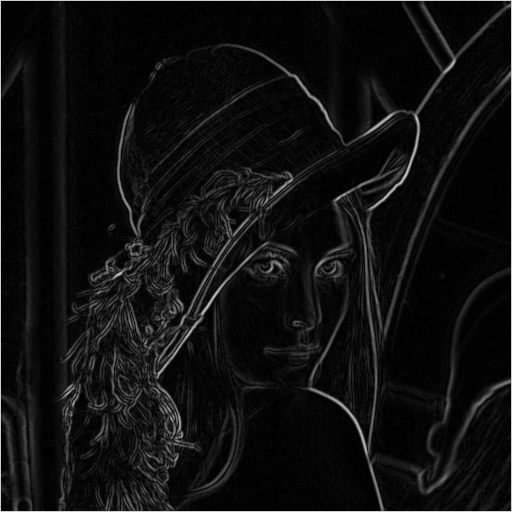
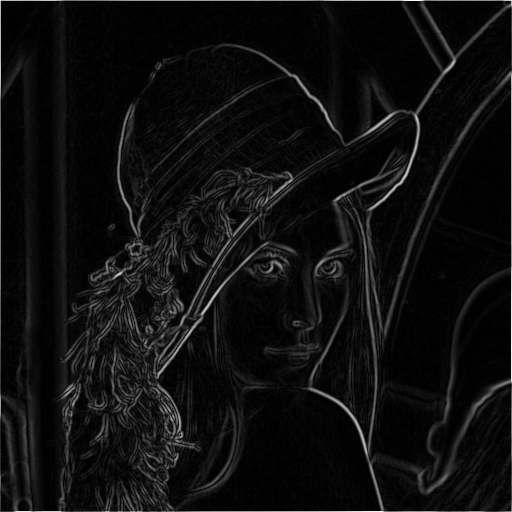
[hw5] 正規化版本

Changed region(s): [[0.9688, 0.9688, 1.0, 1.0], [0.0, 0.9688, 0.0312, 1.0]]

diff --git a/hw5/ImageModel/Main.cpp b/hw5/ImageModel/Main.cpp
@@ -1,6 +1,7 @@
 #include <iostream>
 #include <filesystem> // ISO C++17 標準 (/std:c++17)
 #include <opencv2/opencv.hpp>
+#include <functional>
 
 using namespace std;
 using namespace cv;
@@ -198,6 +199,16 @@ public:
         return grayImage;
     }
 
+    // 二值化
+    Mat ConvertToBinary(const Mat& grayImage, uchar threshold = 128) {
+        Mat binaryImage(grayImage.size(), CV_8UC3);
+
+        for (int i = 0; i < grayImage.rows; i++)
+            for (int j = 0; j < grayImage.cols; j++)
+                binaryImage.at<Vec3b>(i, j) = grayImage.at<Vec3b>(i, j)[0] > threshold ? Vec3b(255, 255, 255) : Vec3b(0, 0, 0);
+        return binaryImage;
+    }
+
     // Filter
     Mat FilterBy(const Mat& sourceImage, FilterType filterType = FilterType::Gaussian, int mask = 3, unsigned int times = 1) {
         Mat resultImage = sourceImage;
@@ -209,8 +220,31 @@ public:
         return resultImage;
     }
 
-    // For Sobel and Prewitt
-    map<EdgeType, Mat> DetectEdgeByKernel(const Mat& sourceImage, const Kernel<int>& kernelX, const Kernel<int>& kernelY) {
+    // Sobel Edge Detect
+    map<EdgeType, Mat> Sobel(const Mat& sourceImage) {
+        // 定義 Sobel Kernel
+        const Kernel<int> sobelKernelX = { {-1, 0, 1}, {-2, 0, 2}, {-1, 0, 1} };
+        const Kernel<int> sobelKernelY = { {-1, -2, -1}, {0, 0, 0}, {1, 2, 1} };
+        return DetectEdgeBy2Kernel(sourceImage, sobelKernelX, sobelKernelY);
+    }
+
+    // Prewitt Edge Detect
+    map<EdgeType, Mat> Prewitt(const Mat& sourceImage) {
+        // 定義 Prewitt Kernel
+        const Kernel<int> prewittKernelX = { {-1, 0, 1}, {-1, 0, 1}, {-1, 0, 1} };
+        const Kernel<int> prewittKernelY = { {-1, -1, -1}, {0, 0, 0}, {1, 1, 1} };
+        return DetectEdgeBy2Kernel(sourceImage, prewittKernelX, prewittKernelY);
+    }
+
+    // Laplacian Edge Detect
+    Mat Laplacian(const Mat& sourceImage, const Kernel<int>& kernel) {
+        const Kernel<int> zeroKernelX = { {0, 0, 0}, {0, 0, 0}, {0, 0, 0} };
+        return DetectEdgeBy2Kernel(sourceImage, kernel, zeroKernelX)[EdgeType::Both];
+    }
+
+private:
+    // 進行
+    map<EdgeType, Mat> DetectEdgeBy2Kernel(const Mat& sourceImage, const Kernel<int>& kernelX, const Kernel<int>& kernelY) {
         // return setting
         map<EdgeType, Mat> resultMap;
         Mat& verticalImage = resultMap[EdgeType::Vertical] = Mat(sourceImage.size(), CV_8UC3);
@@ -219,7 +253,7 @@ public:
 
         // padding
         Mat padded = this->PadByZero(sourceImage, kernelX.size() / 2);
-        
+
         // 計算 gx, gy, G = |gx| + |gy|
         int max = 0;
         Kernel<int> tempG(sourceImage.rows, vector<int>(sourceImage.cols));
@@ -244,8 +278,8 @@ public:
         }
         
         // 正規化
-        for (int i = 1; i < sourceImage.rows - 1; i++)
-            for (int j = 1; j < sourceImage.cols - 1; j++)
+        for (int i = 0; i < sourceImage.rows; i++)
+            for (int j = 0; j < sourceImage.cols; j++)
             {
                 int value = tempG[i][j] * 255 / max;
                 bothImage.at<Vec3b>(i, j) = Vec3b(value, value, value);
@@ -253,7 +287,13 @@ public:
         return resultMap;
     }
 
-private:
+    // padding 使用 0 填充
+    Mat PadByZero(const Mat& image, int paddingSize = 1) {
+        Mat padded = Mat(image.rows + paddingSize * 2, image.cols + paddingSize * 2, image.type(), Scalar(0));
+        image.copyTo(padded(Rect(paddingSize, paddingSize, image.cols, image.rows)));
+        return padded;
+    }
+
     Filter* CreateFilter(FilterType filterType) {
         Filter* filter = nullptr;
         switch (filterType)
@@ -272,13 +312,6 @@ private:
             break;
         }
         return filter;
-    }
-
-    // padding 使用 0 填充
-    Mat PadByZero(const Mat& image, int paddingSize = 1) {
-        Mat padded = Mat(image.rows + paddingSize * 2, image.cols + paddingSize * 2, image.type(), Scalar(0));
-        image.copyTo(padded(Rect(paddingSize, paddingSize, image.cols, image.rows)));
-        return padded;
     }
 };
 
@@ -321,13 +354,9 @@ int main() {
 
     ImageLibrary library = ImageLibrary();
 
-    // 定義 Sobel Kernel
-    const Kernel<int> sobelX = { {-1, 0, 1}, {-2, 0, 2}, {-1, 0, 1} };
-    const Kernel<int> sobelY = { {-1, -2, -1}, {0, 0, 0}, {1, 2, 1} };
-
-    // 定義 Prewitt Kernel
-    const Kernel<int> prewittX = { {-1, 0, 1}, {-1, 0, 1}, {-1, 0, 1} };
-    const Kernel<int> prewittY = { {-1, -1, -1}, {0, 0, 0}, {1, 1, 1} };
+    // 定義 Laplacian Kernel
+    const Kernel<int> laplacianKernel1 = { {0, 1, 0}, {1, -4, 1}, {0, 1, 0} };
+    const Kernel<int> laplacianKernel2 = { {1, 1, 1}, {1, -8, 1}, {1, 1, 1} };
 
     for (ImageInfo imageInfo : images)
     {
@@ -341,8 +370,10 @@ int main() {
         Mat filterImage = library.FilterBy(grayImage, ImageLibrary::FilterType::Gaussian, 3);
         
         // 邊緣偵測
-        map<ImageLibrary::EdgeType, Mat> sobelResult = library.DetectEdgeByKernel(filterImage, sobelX, sobelY);
-        map<ImageLibrary::EdgeType, Mat> prewittResult = library.DetectEdgeByKernel(filterImage, prewittX, prewittY);
+        map<ImageLibrary::EdgeType, Mat> sobelResult = library.Sobel(filterImage);
+        map<ImageLibrary::EdgeType, Mat> prewittResult = library.Prewitt(filterImage);
+        Mat laplacianResult1 = library.Laplacian(filterImage, laplacianKernel1);
+        Mat laplacianResult2 = library.Laplacian(filterImage, laplacianKernel2);
         
         // 顯示結果
         imshow(imageInfo.FileName(), sourceImage);
@@ -352,6 +383,8 @@ int main() {
         imshow(imageInfo.FileName() + "_Prewitt_vertical", prewittResult[ImageLibrary::EdgeType::Vertical]);
         imshow(imageInfo.FileName() + "_Prewitt_horizon", prewittResult[ImageLibrary::EdgeType::Horizon]);
         imshow(imageInfo.FileName() + "_Prewitt_both", prewittResult[ImageLibrary::EdgeType::Both]);
+        imshow(imageInfo.FileName() + "_Laplacian_1", laplacianResult1);
+        imshow(imageInfo.FileName() + "_Laplacian_2", laplacianResult2);
 
         // 儲存圖片
         imwrite(IMAGE_OUTPUT_FOLDER + imageInfo.FileName() + "_Sobel_vertical" + imageInfo.Extension(), sobelResult[ImageLibrary::EdgeType::Vertical]);
